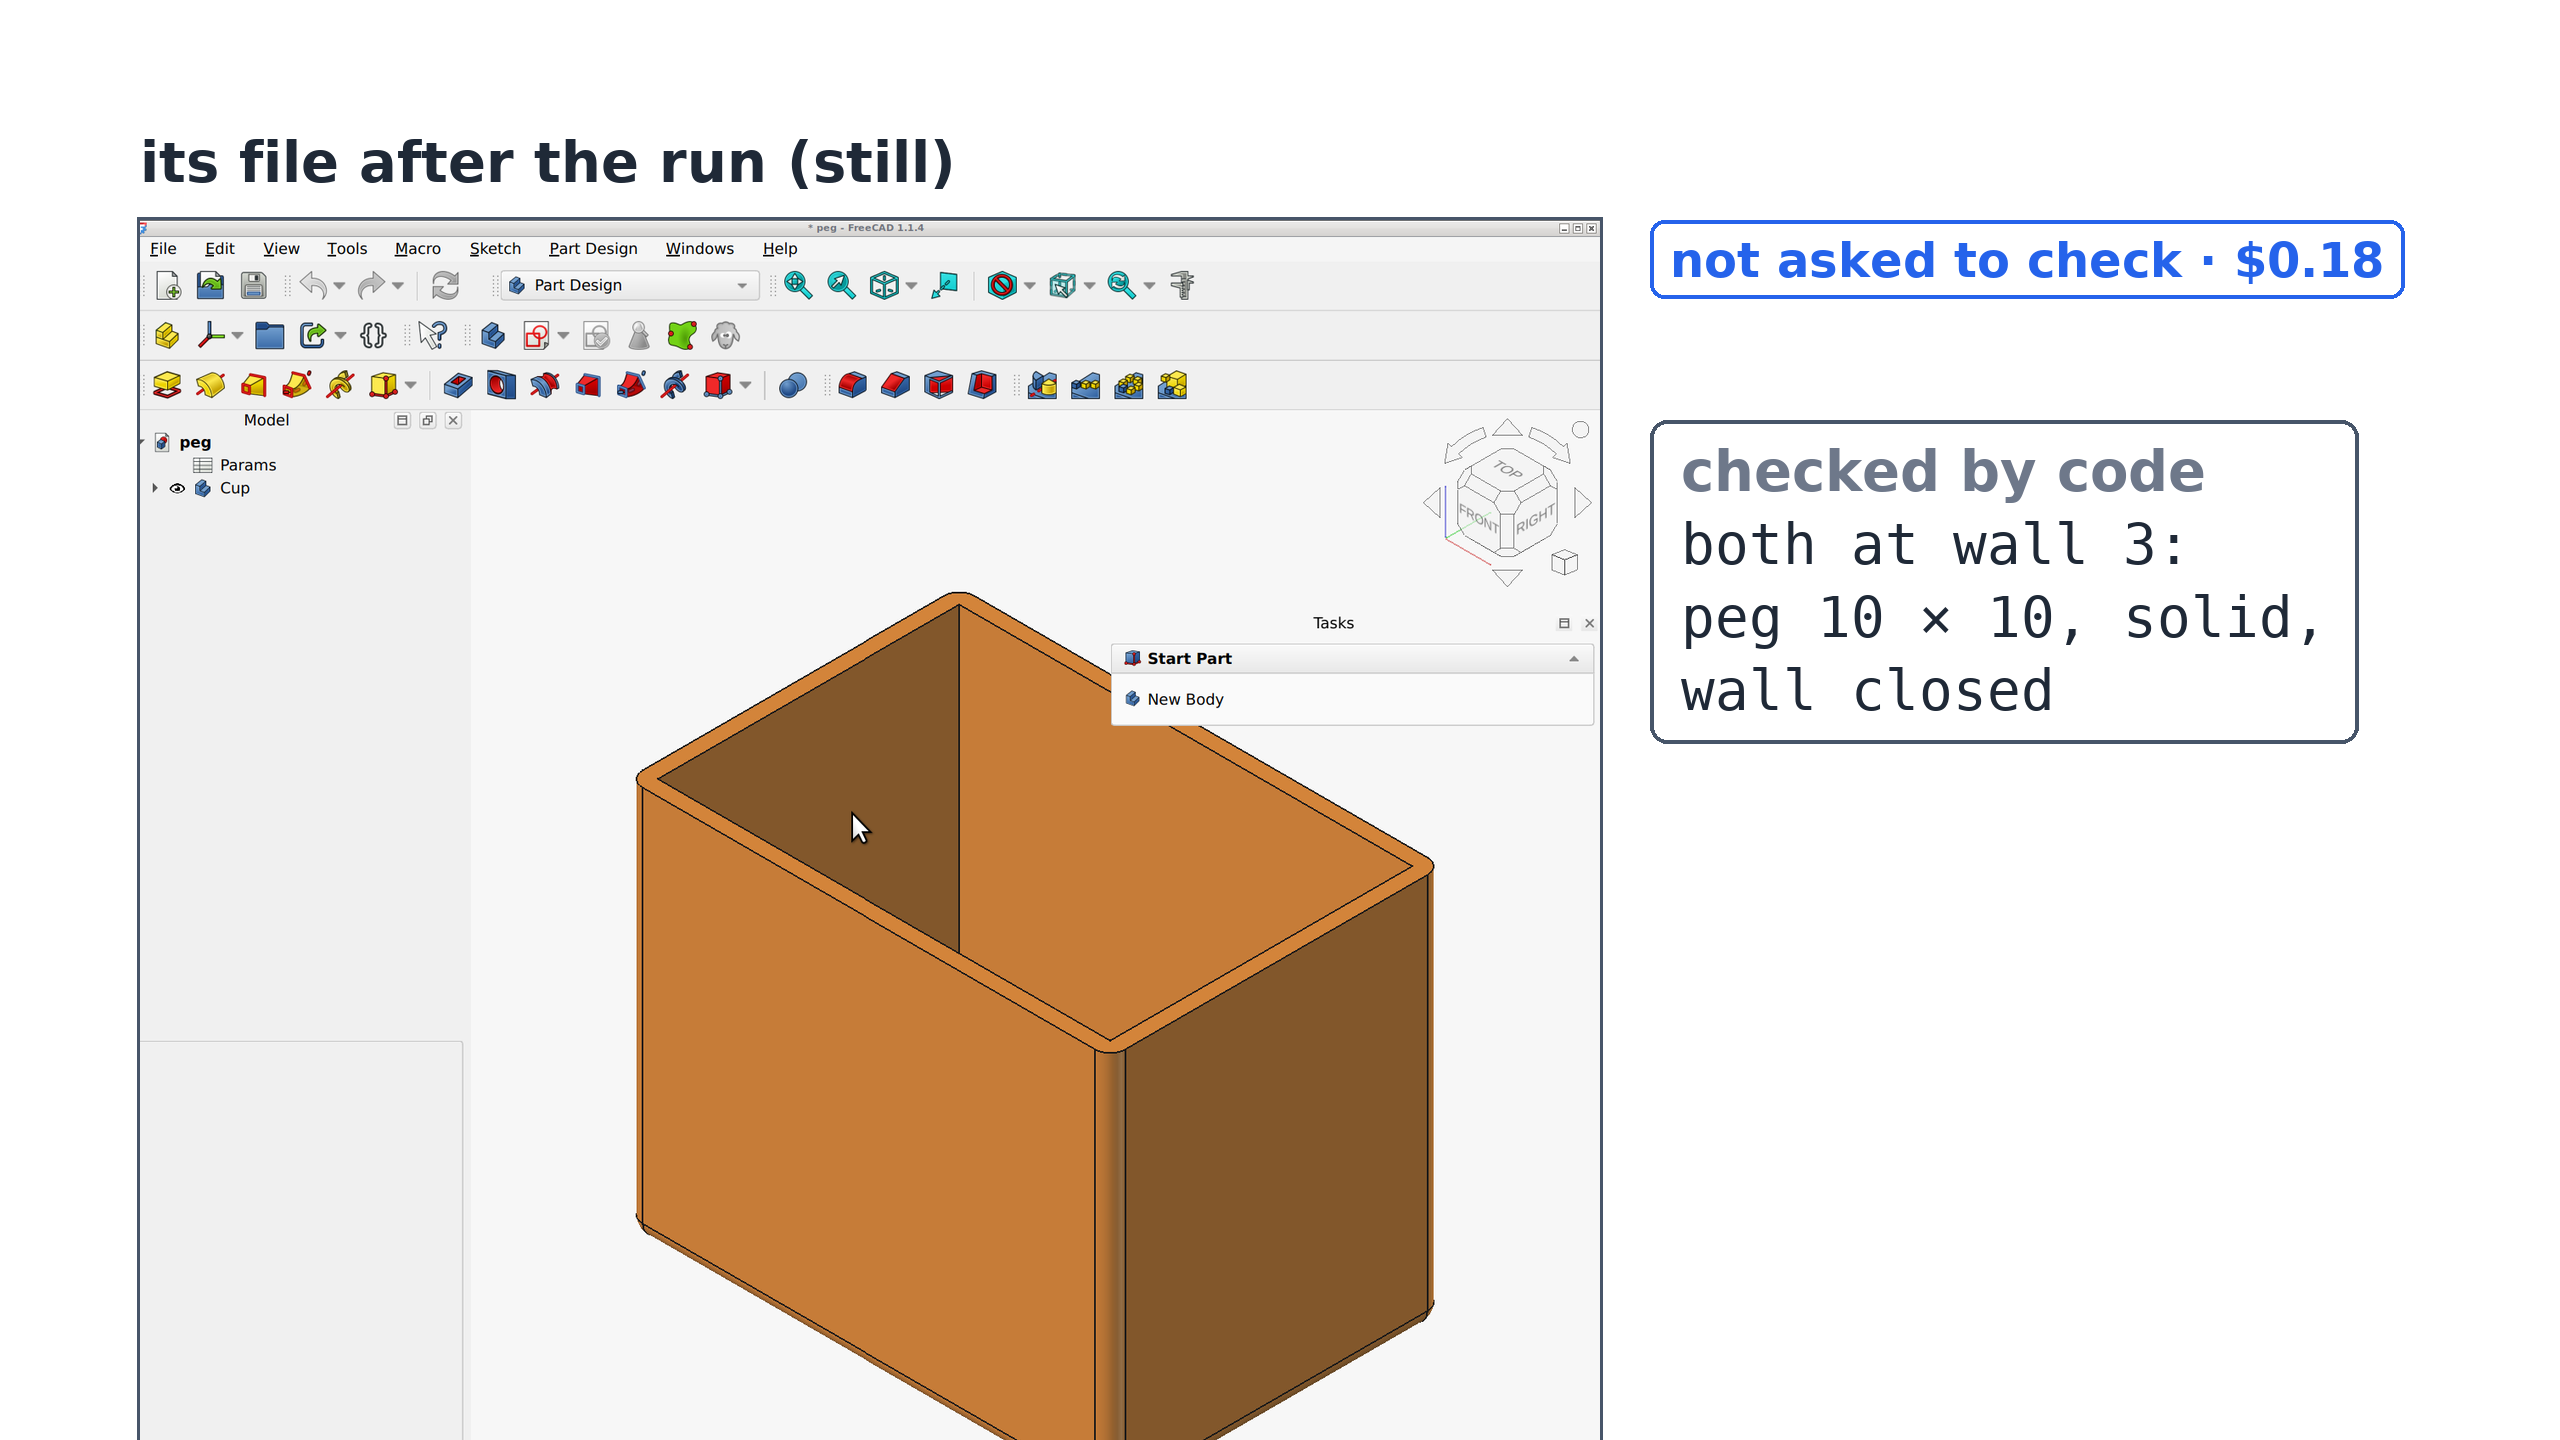
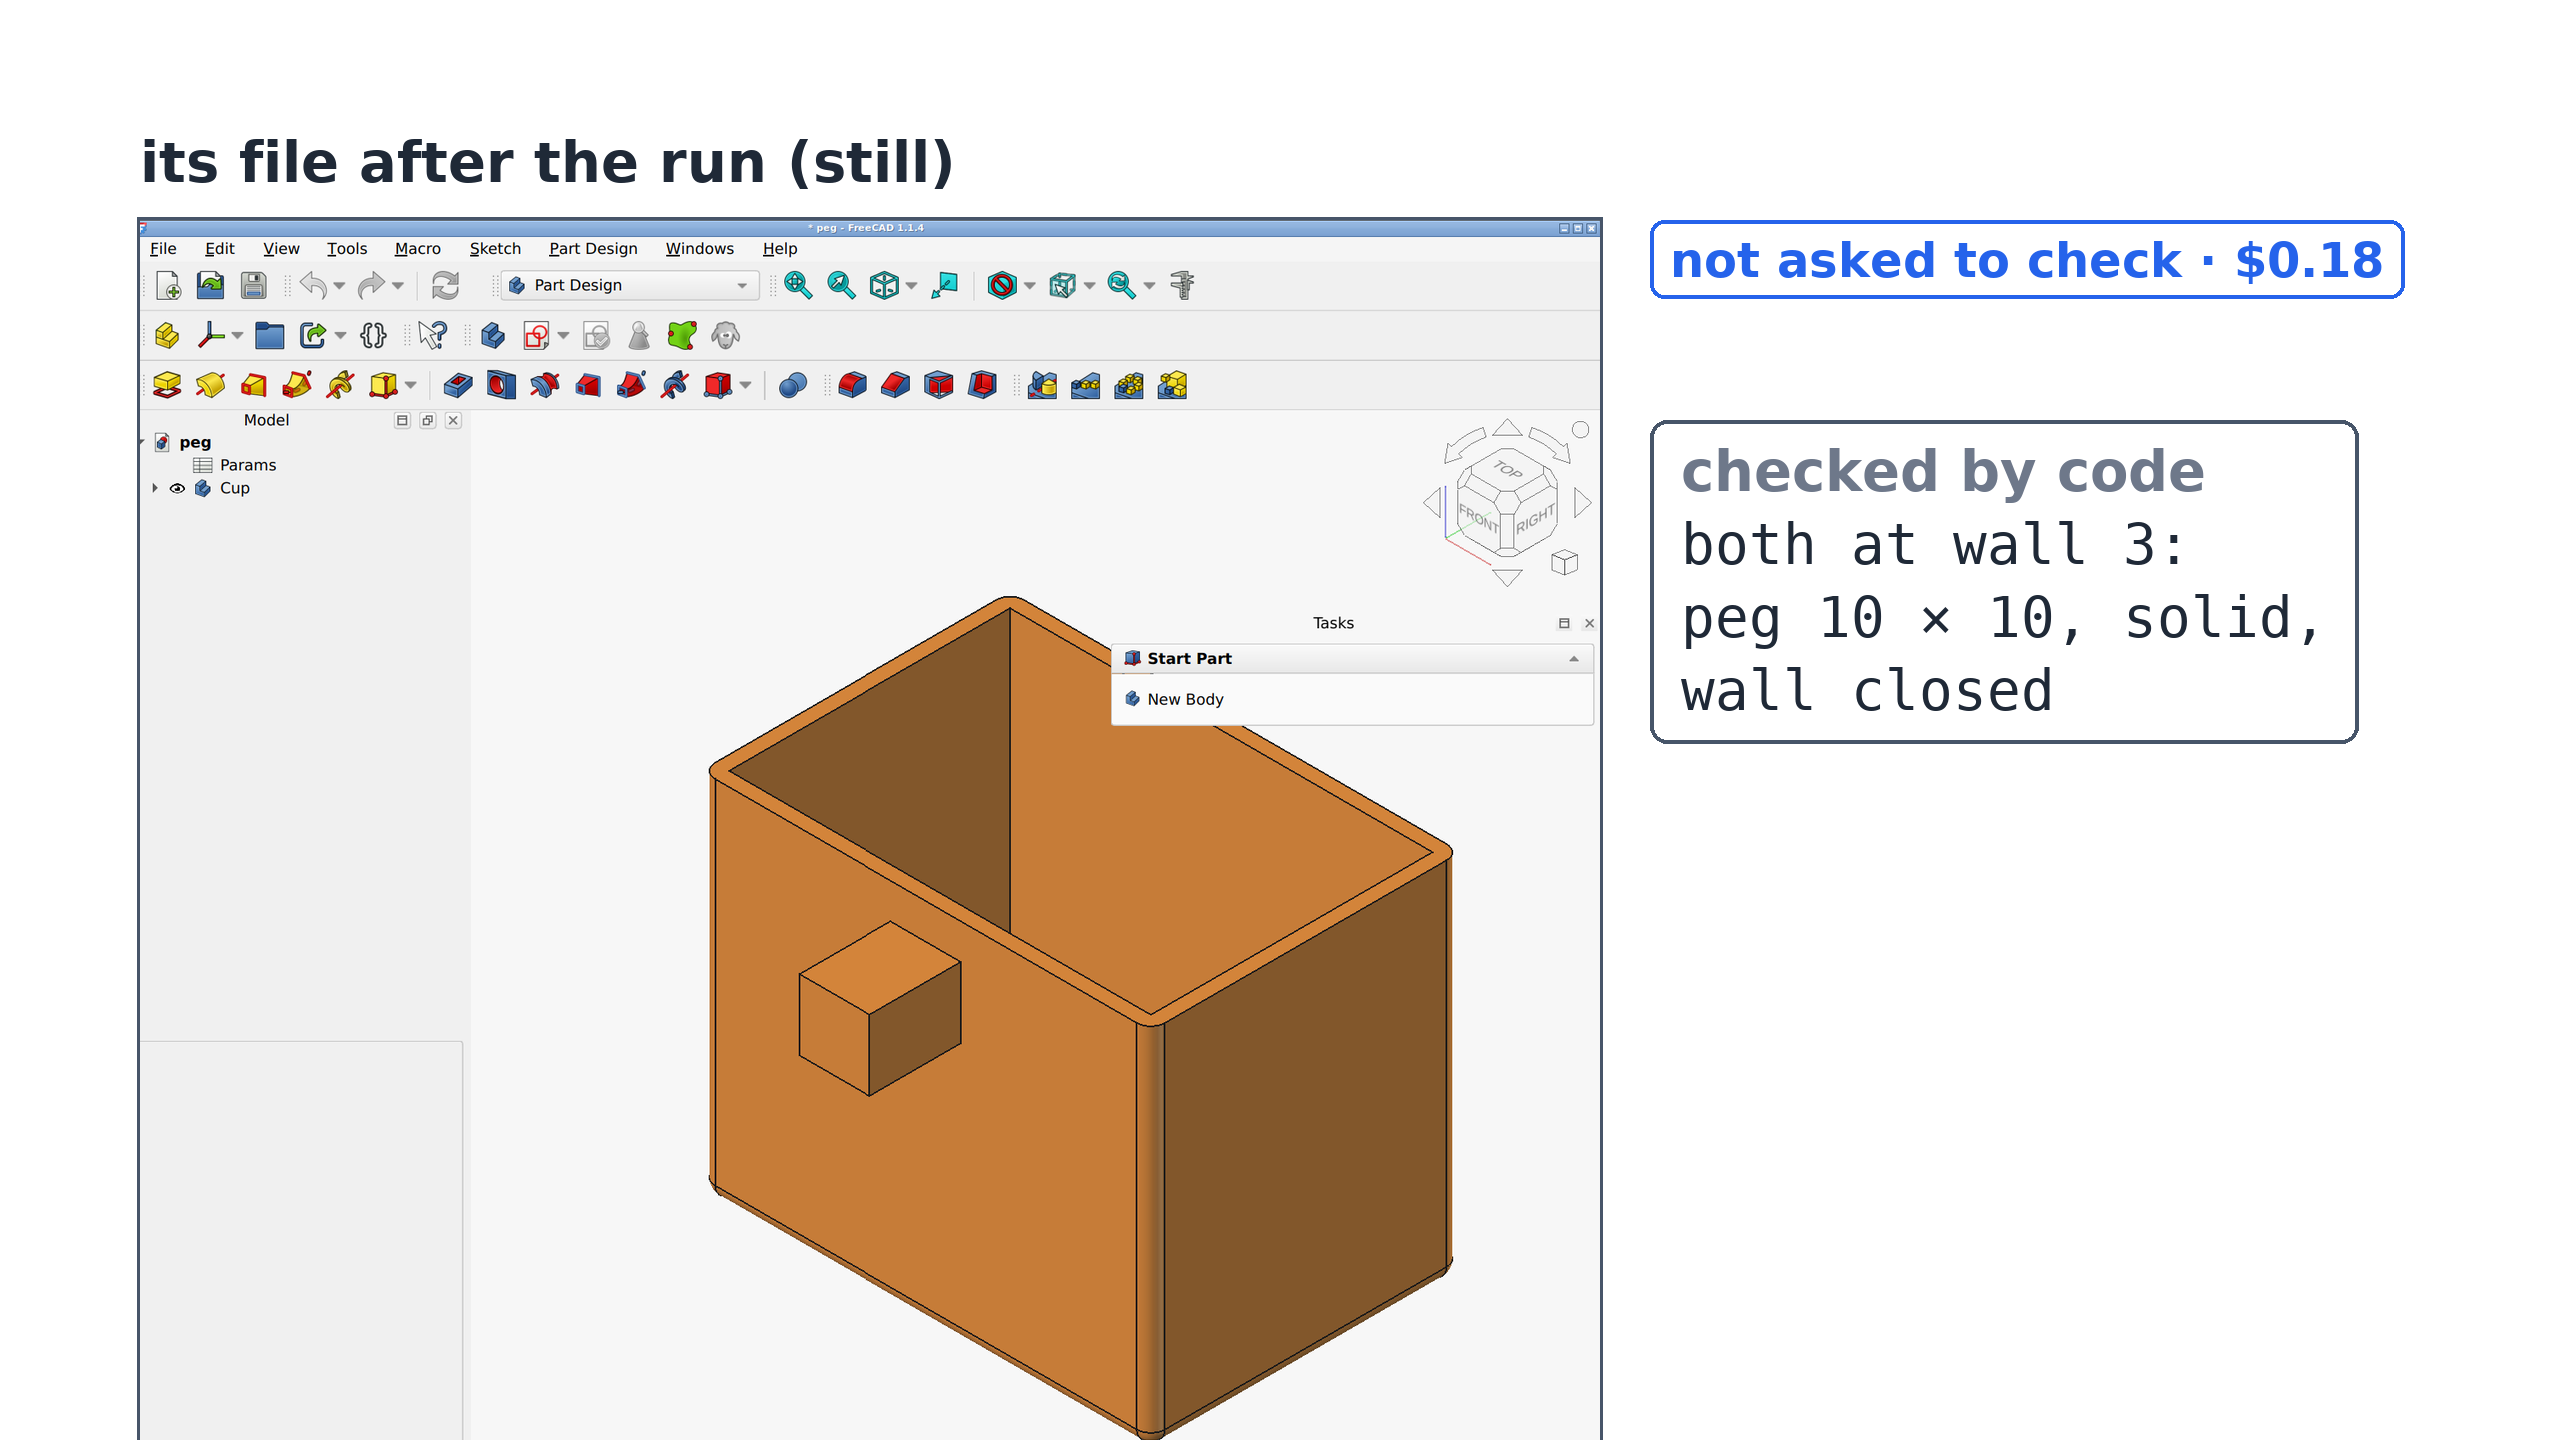
fc14 cut 3: after-run stills from each run's saved file with its Tip shown (lab/fc14_after_still.sh: after-peg.FCStd opened in FreeCAD 1.1.4, prep = Tip Pad001 visible, iso + fit = the before.png camera; no network, no Claude), so the peg shows (WATCH-fc14-cut2 must-fix 1). Test red first, then 11 p

diff --git a/video/draw_fc14.py b/video/draw_fc14.py
@@ -7,7 +7,7 @@ number (tests/test_draw_fc14.py). FreeCAD's outward corners are rounded by the A
 never giving a radius.
   full frame:  card-balloon-1..4 (F2), card-why-1..5 (F6), card-fixed-1..3 (F7a), still-mfa-1..2 (F7a: the G0 still
                q3b-after-recompute.png, the tree, then the first Report row; still-mfa = the last framing),
-               still-after-A1 / -B1 (F12: runs/*/after.png + the panel beside), card-end (F14)
+               still-after-A1 / -B1 (F12: runs/*/after-peg.png (the saved file, Tip shown) + the panel beside), card-end (F14)
   Short:       card-why-s1..3 (S1, 1080 x 1080), card-short-head (1080 x 1920: the frame-1 headline words)
   source overlays (RGBA 2880 x 1800, burnt in by mcp-canvas primers/footage-fc14.py):
       tip-flag / tip-flag-pad   F7a / F7b: the Tip as a small flag beside the tree's last row (y 504) / Pad (y 439)
@@ -261,7 +261,7 @@ def still_mfa():
 def still_after(run, chip):
     """F12: the run's file after the run (still), the panel beside it (never over it)."""
     im, d = canvas()
-    shot = Image.open(os.path.join(TAKES, 'runs', run, 'after.png')).convert('RGB')
+    shot = Image.open(os.path.join(TAKES, 'runs', run, 'after-peg.png')).convert('RGB')   # cut 3: the saved file, Tip shown (lab/fc14_after_still.sh)
     shot = shot.crop((1160, 0, SW, SH)) if shot.width == SW else shot
     k = 1460 / shot.width
     s = shot.resize((1460, round(shot.height * k)), Image.LANCZOS)

diff --git a/tests/test_draw_fc14.py b/tests/test_draw_fc14.py
@@ -146,3 +146,19 @@ def test_key_words_drawn(run):
               'joined: one solid', 'never a wall here', 'balloon = the shape you drew', 'paper = the walls Thickness grows',
               'PEG CAME OUT HOLLOW:', '14, NOT 10', 'Your turn: a peg drawn 7 wide'):
         assert s in allt, s
+
+
+def test_still_after_shows_the_peg(monkeypatch):
+    """cut 3 (WATCH-fc14-cut2 must-fix 1): the after-run still is the SAVED file with its Tip shown (after-peg.png),
+    not the end-of-run GUI shot (after.png, Pad001 hidden after the reorder)."""
+    opened = []
+    real = d.Image.open
+
+    def spy(p, *a, **k):
+        opened.append(str(p))
+        return real(p, *a, **k)
+    monkeypatch.setattr(d.Image, 'open', spy)
+    monkeypatch.setattr(d, 'save', lambda im, name: None)
+    d.still_after('A1', 'not asked to check · $0.18')
+    assert any(p.endswith(os.path.join('A1', 'after-peg.png')) for p in opened), opened
+    assert not any(p.endswith('after.png') for p in opened), opened
